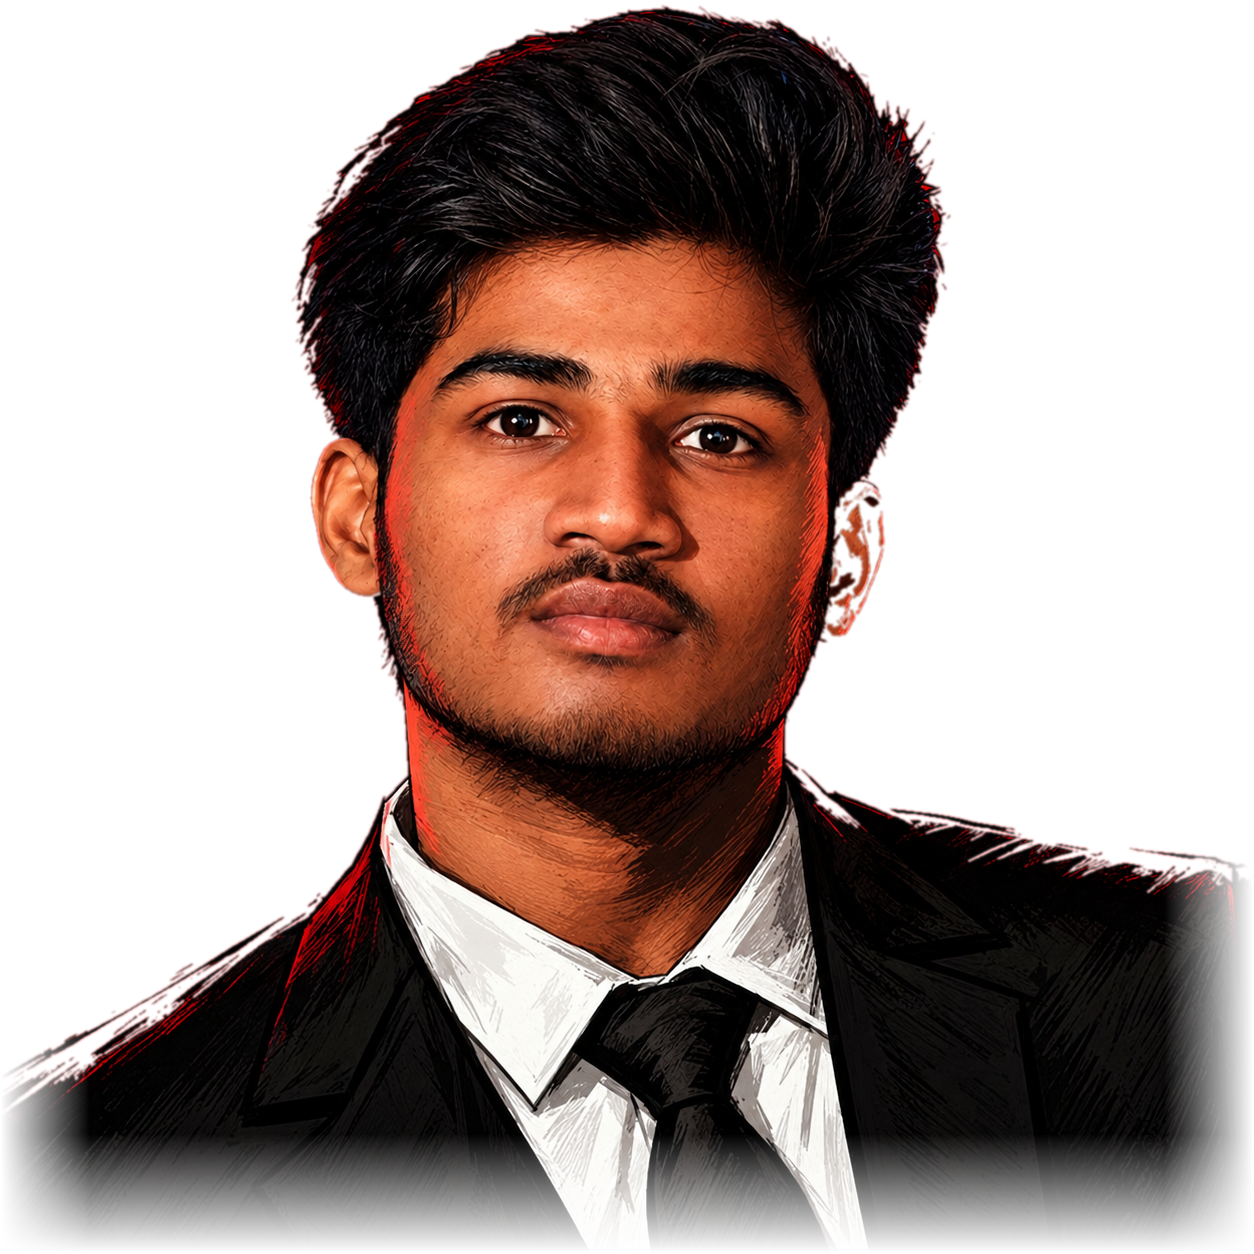
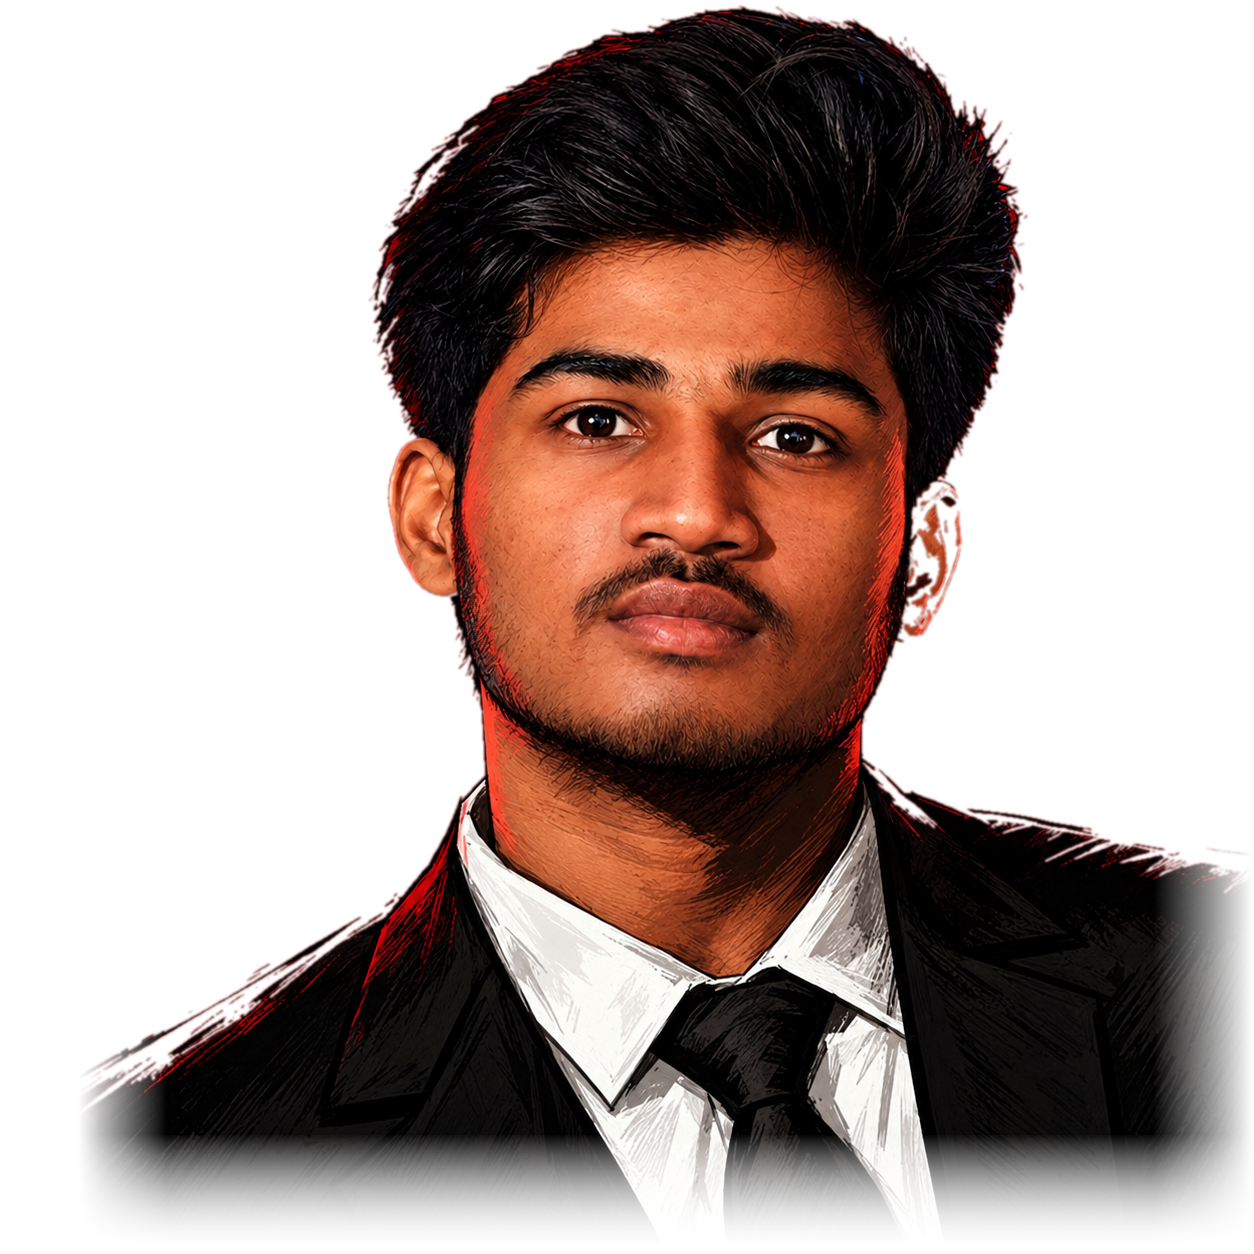
fix(ui/ux): center portrait, halo, and orbital rings with balanced badge positioning

diff --git a/src/components/home/FloatingBadges.tsx b/src/components/home/FloatingBadges.tsx
@@ -17,7 +17,7 @@ export const FloatingBadges: React.FC<FloatingBadgesProps> = ({
       }}
     >
       {/* 1. TOP LEFT BADGE: AI/ML Engineering */}
-      <div className="absolute top-[6%] left-[-4%] sm:left-[-6%] lg:left-[-8%] pointer-events-auto">
+      <div className="absolute top-[8%] left-[-6%] sm:left-[-10%] lg:left-[-14%] pointer-events-auto">
         <div className="badge-float-1 group cursor-pointer">
           <div className="flex items-center gap-2.5 px-3.5 py-2 rounded-2xl bg-dark-950/95 backdrop-blur-md border border-lime-brand/40 shadow-[0_0_20px_rgba(216,255,88,0.18)] hover:border-lime-brand hover:shadow-[0_0_25px_rgba(216,255,88,0.35)] hover:scale-105 transition-all duration-300">
             <div className="p-1.5 rounded-xl bg-lime-brand/15 text-lime-brand group-hover:scale-110 transition-transform">
@@ -36,7 +36,7 @@ export const FloatingBadges: React.FC<FloatingBadgesProps> = ({
       </div>
 
       {/* 2. MID LEFT BADGE: Full-Stack Development (Tucked in negative space beside chin & neck) */}
-      <div className="absolute top-[40%] sm:top-[42%] left-[-2%] sm:left-[-4%] lg:left-[-6%] pointer-events-auto">
+      <div className="absolute top-[44%] left-[-4%] sm:left-[-8%] lg:left-[-12%] pointer-events-auto">
         <div className="badge-float-2 group cursor-pointer">
           <div className="flex items-center gap-2.5 px-3.5 py-2 rounded-2xl bg-dark-950/95 backdrop-blur-md border border-cyan-400/40 shadow-[0_0_20px_rgba(54,217,245,0.18)] hover:border-cyan-400 hover:shadow-[0_0_25px_rgba(54,217,245,0.35)] hover:scale-105 transition-all duration-300">
             <div className="p-1.5 rounded-xl bg-cyan-400/15 text-cyan-400 group-hover:scale-110 transition-transform">
@@ -55,7 +55,7 @@ export const FloatingBadges: React.FC<FloatingBadgesProps> = ({
       </div>
 
       {/* 3. TOP RIGHT BADGE: Healthcare AI */}
-      <div className="absolute top-[10%] sm:top-[12%] right-[-2%] sm:right-[-4%] lg:right-[-6%] pointer-events-auto">
+      <div className="absolute top-[10%] sm:top-[12%] right-[-4%] sm:right-[-8%] lg:right-[-12%] pointer-events-auto">
         <div className="badge-float-3 group cursor-pointer">
           <div className="flex items-center gap-2.5 px-3.5 py-2 rounded-2xl bg-dark-950/95 backdrop-blur-md border border-emerald-400/40 shadow-[0_0_20px_rgba(53,230,176,0.18)] hover:border-emerald-400 hover:shadow-[0_0_25px_rgba(53,230,176,0.35)] hover:scale-105 transition-all duration-300">
             <div className="p-1.5 rounded-xl bg-emerald-400/15 text-emerald-400 group-hover:scale-110 transition-transform">
@@ -74,7 +74,7 @@ export const FloatingBadges: React.FC<FloatingBadgesProps> = ({
       </div>
 
       {/* 4. MID RIGHT BADGE: Cybersecurity & NLP */}
-      <div className="absolute top-[40%] sm:top-[42%] right-[-2%] sm:right-[-4%] lg:right-[-6%] pointer-events-auto">
+      <div className="absolute top-[44%] right-[-4%] sm:right-[-8%] lg:right-[-12%] pointer-events-auto">
         <div className="badge-float-4 group cursor-pointer">
           <div className="flex items-center gap-2.5 px-3.5 py-2 rounded-2xl bg-dark-950/95 backdrop-blur-md border border-lime-brand/40 shadow-[0_0_20px_rgba(216,255,88,0.18)] hover:border-lime-brand hover:shadow-[0_0_25px_rgba(216,255,88,0.35)] hover:scale-105 transition-all duration-300">
             <div className="p-1.5 rounded-xl bg-lime-brand/15 text-lime-brand group-hover:scale-110 transition-transform">

diff --git a/src/components/home/HeroPortrait.tsx b/src/components/home/HeroPortrait.tsx
@@ -62,9 +62,9 @@ export const HeroPortrait: React.FC<HeroPortraitProps> = ({ onHoverStateChange }
       <div
         className="portrait-red-halo absolute rounded-full pointer-events-none z-[10]"
         style={{
-          width: 'clamp(360px, 36vw, 480px)',
-          height: 'clamp(360px, 36vw, 480px)',
-          top: '34%',
+          width: 'clamp(440px, 44vw, 580px)',
+          height: 'clamp(440px, 44vw, 580px)',
+          top: '36%',
           left: '50%',
           transform: `translate(calc(-50% + ${parallaxOffset.x * -0.2}px), calc(-50% + ${parallaxOffset.y * -0.2}px))`,
         }}
@@ -72,7 +72,7 @@ export const HeroPortrait: React.FC<HeroPortraitProps> = ({ onHoverStateChange }
 
       {/* LAYER 4: SVG Concentric Orbital Rings (Visible outside portrait silhouette) */}
       <div
-        className="absolute inset-0 pointer-events-none z-[12] flex items-center justify-center"
+        className="absolute inset-0 pointer-events-none z-[12] flex items-center justify-center -translate-y-4 sm:-translate-y-6"
         style={{
           transform: `translate(${parallaxOffset.x * 0.25}px, ${parallaxOffset.y * 0.25}px)`,
         }}

diff --git a/src/components/home/OrbitalRings.tsx b/src/components/home/OrbitalRings.tsx
@@ -111,17 +111,11 @@ export const OrbitalRings: React.FC<OrbitalRingsProps> = ({
         <circle
           cx="270"
           cy="270"
-          r="180"
-          stroke="rgba(54, 217, 245, 0.22)"
+          r="190"
+          stroke="rgba(216, 255, 88, 0.2)"
           strokeWidth="0.8"
-          strokeDasharray="2 6"
+          strokeDasharray="3 6"
         />
-
-        {/* Technical Coordinate Tick Marks */}
-        <line x1="270" y1="10" x2="270" y2="24" stroke="#36D9F5" strokeWidth="1.5" opacity="0.75" />
-        <line x1="270" y1="516" x2="270" y2="530" stroke="#36D9F5" strokeWidth="1.5" opacity="0.75" />
-        <line x1="10" y1="270" x2="24" y2="270" stroke="#35E6B0" strokeWidth="1.5" opacity="0.75" />
-        <line x1="516" y1="270" x2="530" y2="270" stroke="#35E6B0" strokeWidth="1.5" opacity="0.75" />
       </svg>
     </div>
   );

diff --git a/src/styles/hero-animations.css b/src/styles/hero-animations.css
@@ -7,13 +7,13 @@
 .portrait-red-halo {
   background: radial-gradient(
     circle at 50% 50%,
-    rgba(235, 25, 35, 0.95) 0%,
-    rgba(215, 18, 28, 0.82) 28%,
-    rgba(175, 10, 18, 0.55) 50%,
-    rgba(110, 5, 12, 0.22) 70%,
-    transparent 84%
+    rgba(240, 25, 35, 0.95) 0%,
+    rgba(225, 20, 30, 0.85) 28%,
+    rgba(180, 10, 20, 0.6) 54%,
+    rgba(120, 5, 12, 0.25) 74%,
+    transparent 90%
   );
-  filter: blur(34px);
+  filter: blur(42px);
   will-change: transform, opacity;
   animation: halo-pulse 5s ease-in-out infinite alternate;
 }

diff --git a/src/components/home/HeroSection.tsx b/src/components/home/HeroSection.tsx
@@ -107,7 +107,7 @@ export const HeroSection: React.FC<HeroSectionProps> = ({ onOpenResume }) => {
           </div>
 
           {/* Right Column: ~48% (Enlarged Portrait with Red Halo, Rings & Badges) */}
-          <div className="w-full lg:w-[48%] z-[15] order-1 lg:order-2 flex items-center justify-center lg:justify-end">
+          <div className="w-full lg:w-[48%] z-[15] order-1 lg:order-2 flex items-center justify-center">
             <HeroPortrait />
           </div>
         </motion.div>
